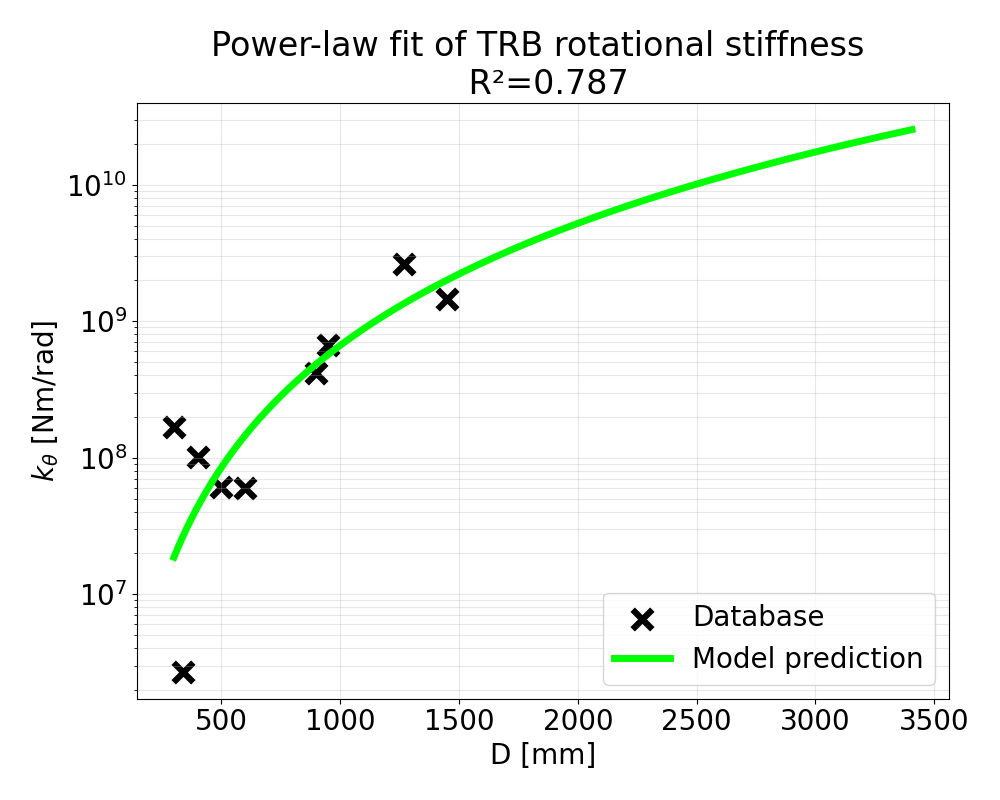
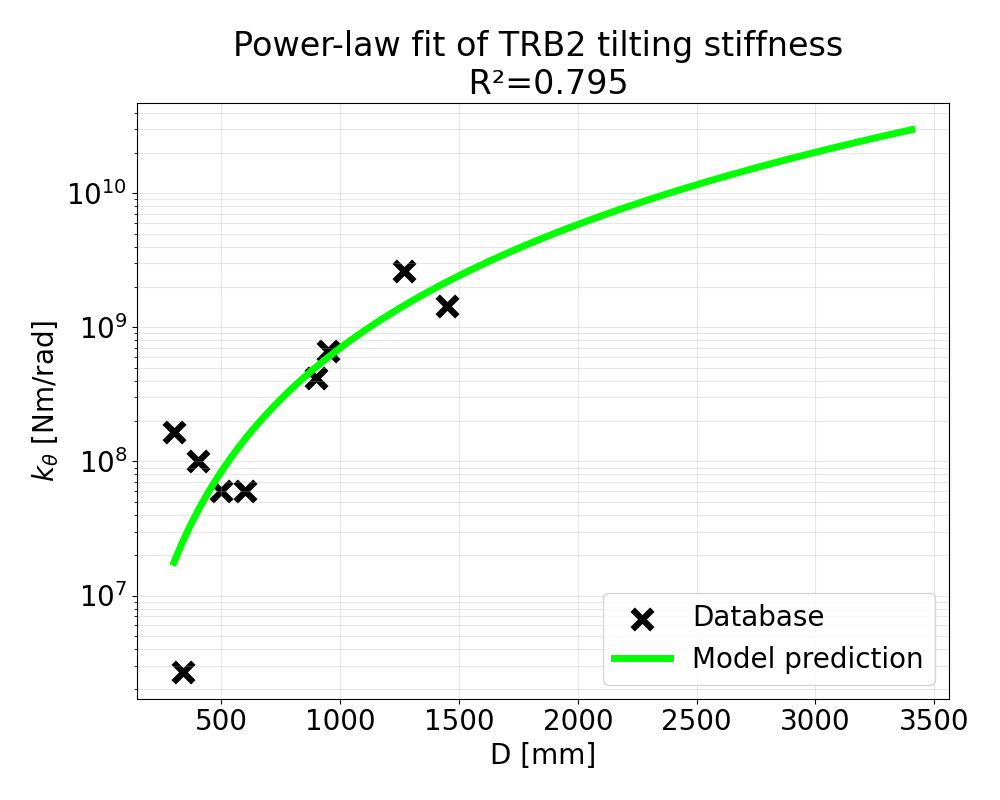
latest script + results AL

diff --git a/examples/06_drivetrain/M4W_production_runs/00b_test_analyMB_pyFrame.py b/examples/06_drivetrain/M4W_production_runs/00b_test_analyMB_pyFrame.py
@@ -832,7 +832,7 @@ plt.yscale("log")
 
 plt.xlabel("D [mm]")
 plt.ylabel(r"$k_{\theta}$"+" [Nm/rad]")
-plt.title("TRB Bearing Rotational Stiffness")
+plt.title("Database of TRB2 tilting stiffness")
 plt.grid(True, which="both", alpha=0.3)
 plt.legend(loc="lower right")
 plt.tight_layout()
@@ -945,7 +945,7 @@ pred_zz = (
 #%%
 # ===== plot the fit =====
 
-plot_yANDz_stiffnesses = False # TODO
+plot_yANDz_stiffnesses = True # TODO
 
 if plot_yANDz_stiffnesses:
     clr_yy = 'black'
@@ -1004,11 +1004,11 @@ plt.yscale("log")
 
 if plot_yANDz_stiffnesses:
     plt.title(
-        "Power-law fit of TRB rotational stiffness"
+        "Power-law fit of TRB2 tilting stiffness"
     )
 else:
     plt.title(
-        f"Power-law fit of TRB rotational stiffness \n R²={model['k_yy']['r2']:.3f}"
+        f"Power-law fit of TRB2 tilting stiffness \n R²={model['k_yy']['r2']:.3f}"
     )
 
 plt.xlabel("D [mm]")
